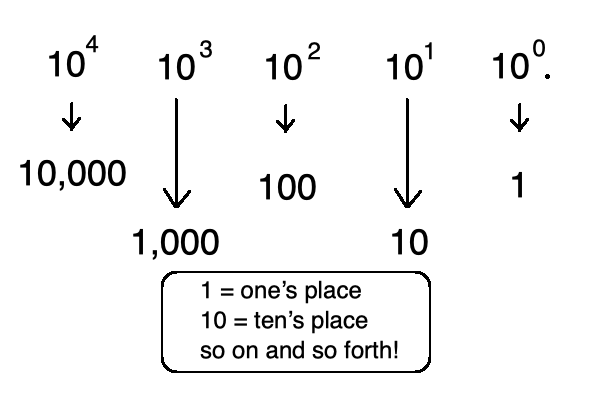
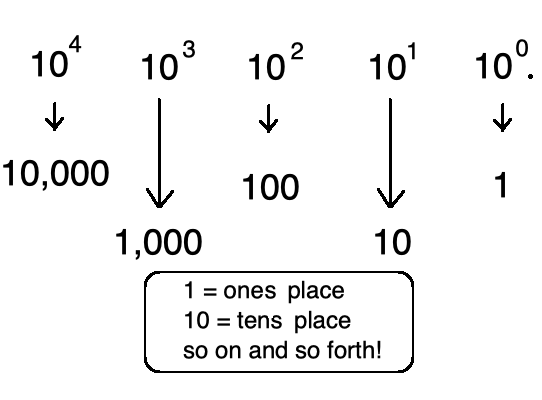
changed incorrect possessive number columns into plural number columns

diff --git a/programming-concepts.html/a013-binary-to-base-10.html b/programming-concepts.html/a013-binary-to-base-10.html
@@ -38,7 +38,7 @@
                     <p><strong>Step 1. </strong>Find the largest power of 2 that fits into the Base-10 number without going over the Base-10 number. Then, put a 1 into that column.
                         <br>As we now know, the powers of 2 are: 1 (2<sup>0</sup>), 2 (2<sup>1</sup>), 4 (2<sup>2</sup>), 8 (2<sup>3</sup>), 16 (2<sup>4</sup>), 32 (2<sup>5</sup>), 64 (2<sup>6</sup>), 128 (2<sup>7</sup>), 256 (2<sup>8</sup>), and so on.
                         <br>The largest power of 2 that fits into 43 is 32 (2<sup>5</sup>). The next power of 2 is 64 (2<sup>6</sup>), which is larger than 43, so we won't use that one.
-                        <br>So now we can put a <strong>1</strong> in the 32's column. This means that our binary sequence will be 6 bits.</p>
+                        <br>So now we can put a <strong>1</strong> in the 32s column. This means that our binary sequence will be 6 bits.</p>
                     <img src="../images/img-025.png">
                 </div>
                 <hr>
@@ -53,26 +53,26 @@
                     <p><strong>Step 3. </strong>Repeat this process using the next largest power of 2.
                         <br>Now we have a remaining balance of 11.  
                         <br>The next largest power of 2 is 8. So let's repeat the process:
-                        <br>Put a <strong>1</strong> in the 8's column, then subtract 8 from the Base-10 number.
+                        <br>Put a <strong>1</strong> in the 8s column, then subtract 8 from the Base-10 number.
                         <br>This now leaves a remaining balance of 3.
-                        <br>Note that because we are not using the 16's column, we simply put a <strong>0</strong> in its place.</p>
+                        <br>Note that because we are not using the 16s column, we simply put a <strong>0</strong> in its place.</p>
                     <img src="../images/img-027.png">
                 </div>
                 <hr>
                 <div class="landscape">
                     <p><strong>Step 4. </strong>Continue until the entire Base-10 number is accounted for.
                         <br>Now we are left with the value of 3. Let's follow the same process until the remaining balance is exactly 0.
-                        <br>The next largest power of 2 is 2, so we will put a <strong>1</strong> in the 2's column and subtract 2 from 3, leaving a remaining balance of 1.
-                        <br>The remaining balance is a power of 2 (2<sup>0</sup>), so we can put a <strong>1</strong> in the 1's column. 
+                        <br>The next largest power of 2 is 2, so we will put a <strong>1</strong> in the 2s column and subtract 2 from 3, leaving a remaining balance of 1.
+                        <br>The remaining balance is a power of 2 (2<sup>0</sup>), so we can put a <strong>1</strong> in the 1s column. 
                         <br>We now have a remaining balance of 0, which means we're done! We now know that 43 in binary is <strong>1 0 1 0 1 1</strong>!</p>
                     <img src="../images/img-028.png">
                 </div>
                 <hr>
                 <div class="landscape">
                     <p>Let's do one more. Let's try the number 22.
-                        <br>The largest power of 2 that fits is 16, so let's put a <strong>1</strong> in the 16's column, and subtract it from 27. We now have a remaining value of 6.
+                        <br>The largest power of 2 that fits is 16, so let's put a <strong>1</strong> in the 16s column, and subtract it from 22. We now have a remaining value of 6.
                         <br>The next largest power of 2 would be 4, so let's following the same process. We have a remaining balance of 2. 
-                        <br>2 fits into 2<sup>1</sup> perfectly, so once we put a <strong>1</strong> into the 2's column, we're done!
+                        <br>2 fits into 2<sup>1</sup> perfectly, so once we put a <strong>1</strong> into the 2s column, we're done!
                         <br>We now know that 22 in binary is <strong>1 0 1 1 0</strong>!</p>
                     <img src="../images/img-029.png">
                 </div>

diff --git a/programming-concepts.html/base-10-numbering-system-2.html b/programming-concepts.html/base-10-numbering-system-2.html
@@ -27,8 +27,8 @@
                 </div>
                 <hr>
                 <div class="landscape">
-                    <p>Well, the 3 is in the ten's place, and the 7 is in the one's place . . . So that's it, right? wrong!
-                        <br>How do we know that the 3 is in the ten's place? What is the ten's place? What does that mean?
+                    <p>Well, the 3 is in the tens place, and the 7 is in the ones place . . . So that's it, right? wrong!
+                        <br>How do we know that the 3 is in the tens place? What is the tens place? What does that mean?
                         <br>To understand this, we need the help of some exponents and scientific notation!</p>
                     <img src="../images/img-003.png">
                 </div>
@@ -41,7 +41,7 @@
                 </div>
                 <hr>
                 <div class="landscape">
-                    <p>To determine where the one's place and ten's place are, let's do some quick exponent math.
+                    <p>To determine where the ones place and tens place are, let's do some quick exponent math.
                         <br>As we said, because this is a Base-10 numbering system, the base number will always be 10.
                         <br>Starting at the right-most position, let's start with an exponent of 0.
                         <br>Every time we move one space to the left, we will add 1 to the exponent.</p>
@@ -51,9 +51,9 @@
                 <div class="landscape">
                     <p>Now let's solve:
                         <br>Any base with an exponent of 0 equals 1, and any base with an exponent of 1 equals the base.
-                        <br>10 to the power of 0 equals <strong>1</strong>. Therefore, that position is the <strong>one</strong>'s place.
-                        <br>10 to the power of 1 equals <strong>10</strong>. Therefore, that position is the <strong>ten</strong>'s place.
-                        <br>10 to the power of 2 equals <strong>100</strong>. Therefore, that position is the <strong>hundred</strong>'s place.
+                        <br>10 to the power of 0 equals <strong>1</strong>. Therefore, that position is the <strong>one</strong>s place.
+                        <br>10 to the power of 1 equals <strong>10</strong>. Therefore, that position is the <strong>ten</strong>s place.
+                        <br>10 to the power of 2 equals <strong>100</strong>. Therefore, that position is the <strong>hundred</strong>s place.
                         <br>We can keep this going forever, baby!</p>
                     <img src="../images/img-005.png">
                 </div>
@@ -69,10 +69,10 @@
                 <hr>
                 <div class="landscape">
                     <p>Now let's do another one. Take a look at the number 2,049. Everything is the same concept as before.
-                        <br>9 is in the one's place, so the exponent will be 0.
-                        <br>4 is in the ten's place, so the exponent will be 1.
-                        <br>0 is in the hundred's place, so the exponent will be 2.
-                        <br>And finally, 2 is in the thousand's place, so the exponent will be 3.
+                        <br>9 is in the ones place, so the exponent will be 0.
+                        <br>4 is in the tens place, so the exponent will be 1.
+                        <br>0 is in the hundreds place, so the exponent will be 2.
+                        <br>And finally, 2 is in the thousands place, so the exponent will be 3.
                     </p>
                     <img src="../images/img-007.png">
                 </div>

diff --git a/programming-concepts.html/binary-and-base-2.html b/programming-concepts.html/binary-and-base-2.html
@@ -45,9 +45,9 @@
                 <hr>
                 <div class="landscape">
                     <p>Because the base is changed from ten to two, the names of the columns have changed.
-                        <br>The one's place in Base-10 is still the one's column.
-                        <br>The ten's place in Base-10 is now the two's column.
-                        <br>The hundred's place in Base-10 is now the four's column.
+                        <br>The ones place in Base-10 is still the ones column.
+                        <br>The tens place in Base-10 is now the twos column.
+                        <br>The hundreds place in Base-10 is now the fours column.
                         <br>This will continue for every column, replacing the powers of 10 with the powers of 2. The columns and exponents work the exact same way though.</p>
                     <img src="../images/img-012.png">
                 </div>
@@ -63,8 +63,8 @@
                 <hr>
                 <div class="landscape">
                     <p>Now let's try another example. If we have <strong>1 1 0 1 1</strong> in Base-2, what is the Base-10 equivalent?
-                        <br>Well we have a 1 in the one's, two's, eight's, and sixteen's column.
-                        <br>In the four's column, 0 will be the coefficient resulting in a 0 for that scientific notation equation, so let's just ignore it.
+                        <br>Well we have a 1 in the ones, twos, eights, and sixteens column.
+                        <br>In the fours column, 0 will be the coefficient resulting in a 0 for that scientific notation equation, so let's just ignore it.
                         <br>If we add together 16 + 8 + 2 + 1, we get a result of 27.
                         <br>This means that <strong>1 1 0 1 1</strong> in Base-2 is <strong>27</strong> in Base-10!</p>
                     <img src="../images/img-014.png">
@@ -73,7 +73,7 @@
                 <div class="landscape">
                     <p>Understanding scientific notation is vital for understanding numbers in Base-2.
                         <br>Remember to always start on the right most side and begin with an exponent of 0.
-                        <br>Because the symbols in Base-2 never become larger than 1, each column will work with powers of 2. Meaning, the two's column in Base-2 will always equal either 2 or 0. The four's column in Base-2 will always equal either 4 or 0. The eight's column in Base-2 will always equal either 8 or 0. This continues indefinitely. Then, simply add the columns that have a 1 in them, ignoring the columns with 0 in their place.
+                        <br>Because the symbols in Base-2 never become larger than 1, each column will work with powers of 2. Meaning, the twos column in Base-2 will always equal either 2 or 0. The fours column in Base-2 will always equal either 4 or 0. The eights column in Base-2 will always equal either 8 or 0. This continues indefinitely. Then, simply add the columns that have a 1 in them, ignoring the columns with 0 in their place.
                     </p>
                     <img src="../images/img-015.png"
                 </div>

diff --git a/programming-concepts.html/binary-and-base-2-quiz.html b/programming-concepts.html/binary-and-base-2-quiz.html
@@ -21,10 +21,10 @@
             <section>
                 <div class="q-and-a">
                     <p>The right-most column in Base-2 is the ____.</p>
-                    <button class="answer">zero's column</button>
-                    <button class="answer" data-correct="true">one's column</button>
-                    <button class="answer">two's column</button>
-                    <button class="answer">four's column</button>
+                    <button class="answer">zeros column</button>
+                    <button class="answer" data-correct="true">ones column</button>
+                    <button class="answer">twos column</button>
+                    <button class="answer">fours column</button>
                     <p class="result"></p>
                 </div>
                 <hr>
@@ -56,7 +56,7 @@
                 </div>
                 <hr>
                 <div class="q-and-a">
-                    <p>If we have a Base-2 sequence in which <strong>0</strong> is in the eight's column, what Base-10 value is in the eight's column?</p>
+                    <p>If we have a Base-2 sequence in which <strong>0</strong> is in the eights column, what Base-10 value is in the eights column?</p>
                     <button class="answer" data-correct="true">0</button>
                     <button class="answer">1</button>
                     <button class="answer">8</button>
@@ -65,7 +65,7 @@
                 </div>
                 <hr>
                 <div class="q-and-a">
-                    <p>If we have a Base-2 sequence in which <strong>1</strong> is in the eight's column, what Base-10 value is in the eight's column?</p>
+                    <p>If we have a Base-2 sequence in which <strong>1</strong> is in the eights column, what Base-10 value is in the eights column?</p>
                     <button class="answer">0</button>
                     <button class="answer">1</button>
                     <button class="answer" data-correct="true">8</button>
@@ -75,10 +75,10 @@
                 <hr>
                 <div class="q-and-a">
                     <p>The hundred's place in Base-10 is what column in Base-2?</p>
-                    <button class="answer">one's column</button>
-                    <button class="answer">two's column</button>
-                    <button class="answer">three's column</button>
-                    <button class="answer" data-correct="true">four's column</button>
+                    <button class="answer">ones column</button>
+                    <button class="answer">twos column</button>
+                    <button class="answer">threes column</button>
+                    <button class="answer" data-correct="true">fours column</button>
                     <p class="result"></p>
                 </div>
                 <hr>

diff --git a/programming-concepts.html/binary-and-base-2-expanded.html b/programming-concepts.html/binary-and-base-2-expanded.html
@@ -35,8 +35,8 @@
                     <p>Let's take a look a different concept.
                         <br>We've established that when a column has a <strong>0</strong> in it, that specific column will hold a value of 0.
                         <br>So let's say we have a sequence of <strong>0 0 1</strong>. 
-                        <br>We know to start from the right-most column to determine the value. Since the one's column is the only column with a value that is not 0, we can stop at this column.
-                        <br>The value of 1 can be written as <strong>1</strong> or <strong>0 0 1</strong> or even <strong>0 0 0 0 0 0 1</strong>.</p>
+                        <br>We know to start from the right-most column to determine the value. Since the ones column is the only column with a value that is not 0, we can stop at this column.
+                        <br>The value of 1 can be written as <strong>1</strong> or <br><strong>0 0 1</strong> or even <br><strong>0 0 0 0 0 0 1</strong>.</p>
                     <img src="../images/img-018.png">    
                 </div>
                 <hr>
@@ -63,7 +63,7 @@
                     <p>Look at the largest sequences above. Do you see how all of those numbers are <i>almost</i> powers of 2?
                         <br>They are all powers of 2 minus 1. 
                         <br>So let's say we are trying to find the largest sequence that we can make using 9 bits. 
-                        <br>Let's use the equation: <strong>2<sup>n</sup> - 1</strong>
+                        <br>Let's use the equation: <br><strong>2<sup>n</sup> - 1</strong>
                         <br>If we are trying to find the largest sequence using 9 bits, we can replace the <strong>n</strong> in the equation with 9.
                         <br>So to find the largest sequence using 9 bits, we can use the equation <strong>2<sup>n</sup> - 1</strong>. (You can use a calculator. I won't tell anyone.)</p>
                     <img src="../images/img-021.png">

diff --git a/programming-concepts.html/a012-review-01.html b/programming-concepts.html/a012-review-01.html
@@ -38,7 +38,7 @@
                 </div>
                 <hr>
                 <div class="q-and-a">
-                    <p>In the following sequence, which digit is in the four's column? <br><strong>1 0 1 0</strong></p>
+                    <p>In the following sequence, which digit is in the fours column? <br><strong>1 0 1 0</strong></p>
                     <button class="answer">Starting from the right side, the first <strong>0</strong>.</button>
                     <button class="answer">Starting from the right side, the first <strong>1</strong>.</button>
                     <button class="answer" data-correct="true">Starting from the right side, the second <strong>0</strong>.</button>
@@ -83,7 +83,7 @@
                 </div>
                 <hr>
                 <div class="q-and-a">
-                    <p>The thousand's place in Base-10 is the _____'s column in Base-2.</p>
+                    <p>The thousands place in Base-10 is the _____s column in Base-2.</p>
                     <button class="answer" data-correct="true">eight</button>
                     <button class="answer">sixteen</button>
                     <button class="answer">thirty-two</button>

diff --git a/programming-concepts.html/a021-floating-point.html b/programming-concepts.html/a021-floating-point.html
@@ -35,7 +35,8 @@
                 <hr>
                 <div class="landscape">
                     <p>Think about a basic calculator. What happens when you input 1/3 into a calculator? You will probably see something like this: 0.3333333333
-                        <br>But that isn't actually correct, is it? Because 1/3 never ends, but the calculator display shows a number with an end.
+                        <br>But that isn't actually correct, is it? <br>0.3333333333 + 0.3333333333 + 0.3333333333 equals 0.9999999999. It does not equal 1.
+                        <br>1/3 never ends, but the calculator display shows a number with an end.
                         <br>This is what happens with a limited storage space. This idea is called <strong>floating point storage</strong>.
                         <br>Numbers must be rounded because there is no way to fit the entire number within the given storage. So we can only actually store an approximate number.</p>
                     <img src="../images/img-049.png">

diff --git a/programming-concepts.html/a017-signed-vs-unsigned.html b/programming-concepts.html/a017-signed-vs-unsigned.html
@@ -37,8 +37,8 @@
                         <br>If we are working with 8-bit <strong>signed</strong> integer storage, our range becomes -128 to 127.
                         <br>In an unsigned system, the lowest integer value will always be 0, because we are not dealing with negatives. The highest value, as we learned in previous lessons, is 2<sup>n</sup> - 1, which in the case of 8-bit, is 255.
                         <br>In a signed system, we have two equations to learn:
-                        <br>The <strong>lowest</strong> value will be -2<sup>n-1</sup>
-                        <br>The <strong>highest</strong> value will be 2<sup>n-1</sup> - 1</p>
+                        <br>The <strong>lowest</strong> value will be: <br>-2<sup>n-1</sup>
+                        <br>The <strong>highest</strong> value will be: <br>2<sup>n-1</sup> - 1</p>
                     <img src="../images/img-039.png">
                 </div>
                 <hr>

diff --git a/programming-concepts.html/base-10-quiz.html b/programming-concepts.html/base-10-quiz.html
@@ -48,10 +48,10 @@
                 <hr>
                 <div class="q-and-a">
                     <p>If a number is in the place of 10 to the 4th power, which place is it in?</p>
-                    <button class="answer">the one's place.</button>
-                    <button class="answer">the thousand's place.</button>
-                    <button class="answer" data-correct="true">the ten-thousand's place.</button>
-                    <button class="answer">the hundred-thousand's place.</button>
+                    <button class="answer">the ones place.</button>
+                    <button class="answer">the thousands place.</button>
+                    <button class="answer" data-correct="true">the ten-thousands place.</button>
+                    <button class="answer">the hundred-thousands place.</button>
                     <p class="result"></p>
                 </div>
                 <hr>

diff --git a/programming-concepts.html/what-is-binary.html b/programming-concepts.html/what-is-binary.html
@@ -19,7 +19,7 @@
             <hr>
             <section>
                 <div class="landscape">
-                    <p>You know that image of the 0s and 1s that you probably associate with the Matrix movies?
+                    <p>You know that image of the <strong>0</strong>s and <strong>1</strong>s that you probably associate with the Matrix movies?
                         <br>Well, that's binary.
                         <br>But what is it? and how do you use it?</p>
                     <img src="../images/binary 01.png">

diff --git a/styles.css b/styles.css
@@ -2,6 +2,7 @@ body {
     background-color: antiquewhite;
     margin-left: 10%;
     margin-right: 10%;
+    /* max-width: 100%; */
 }
 
 img {
